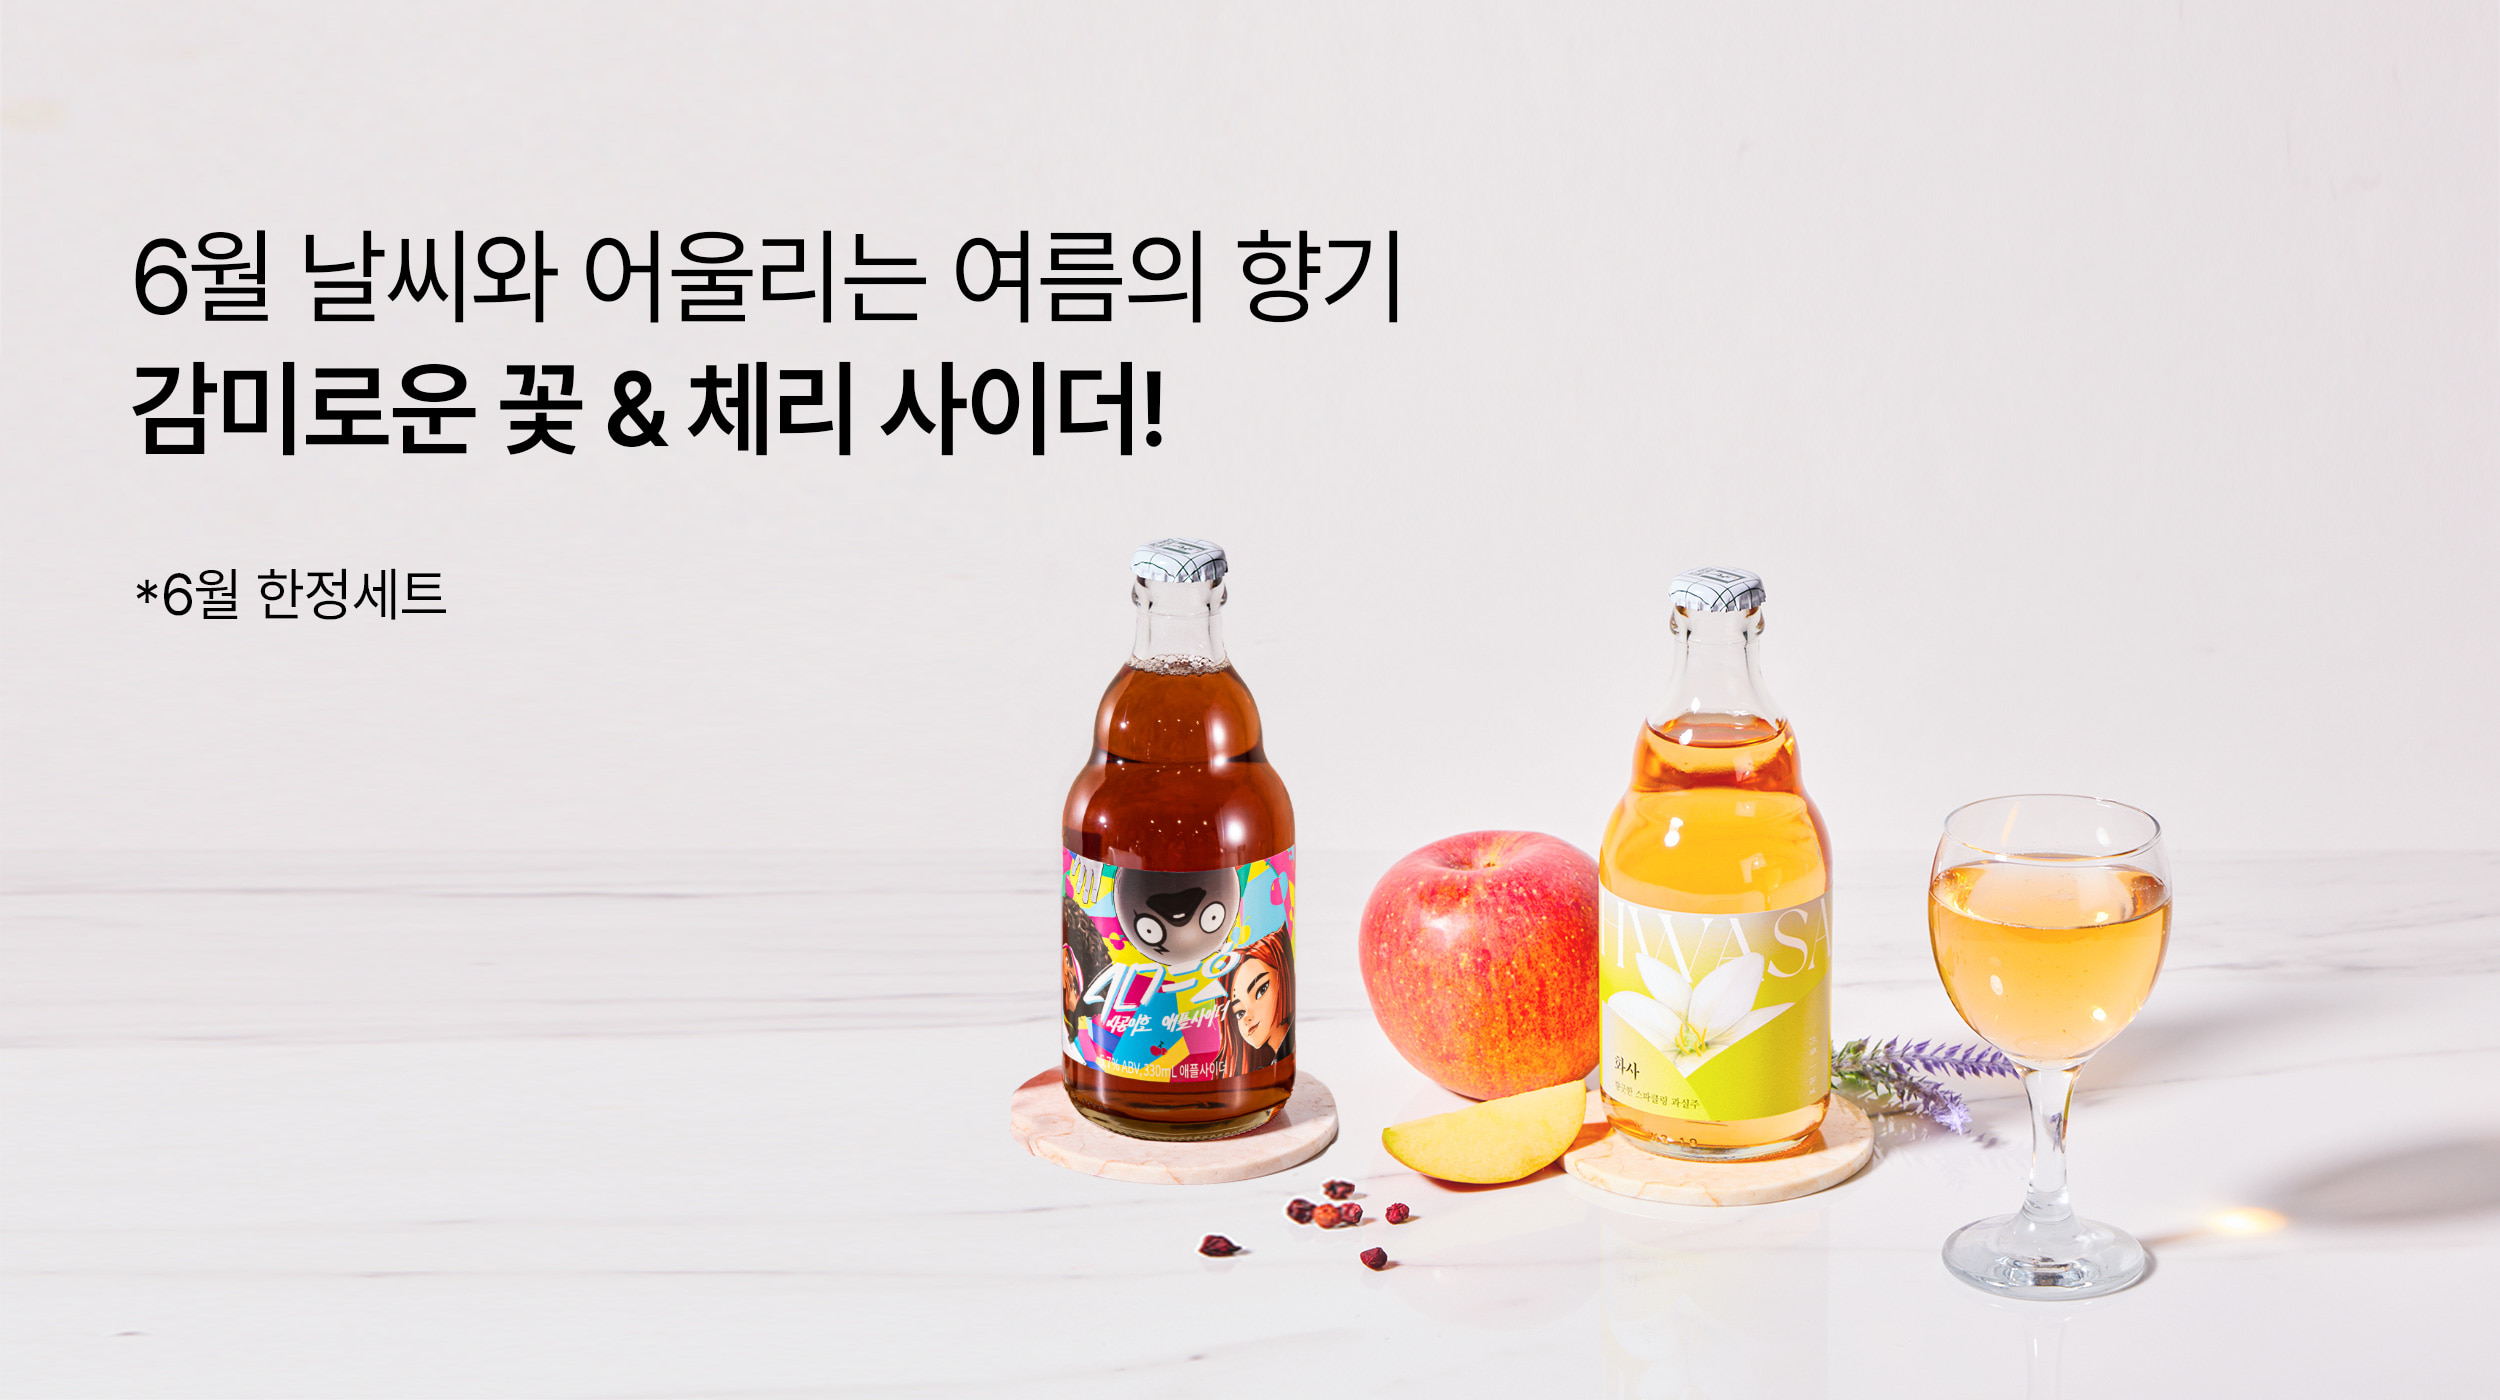
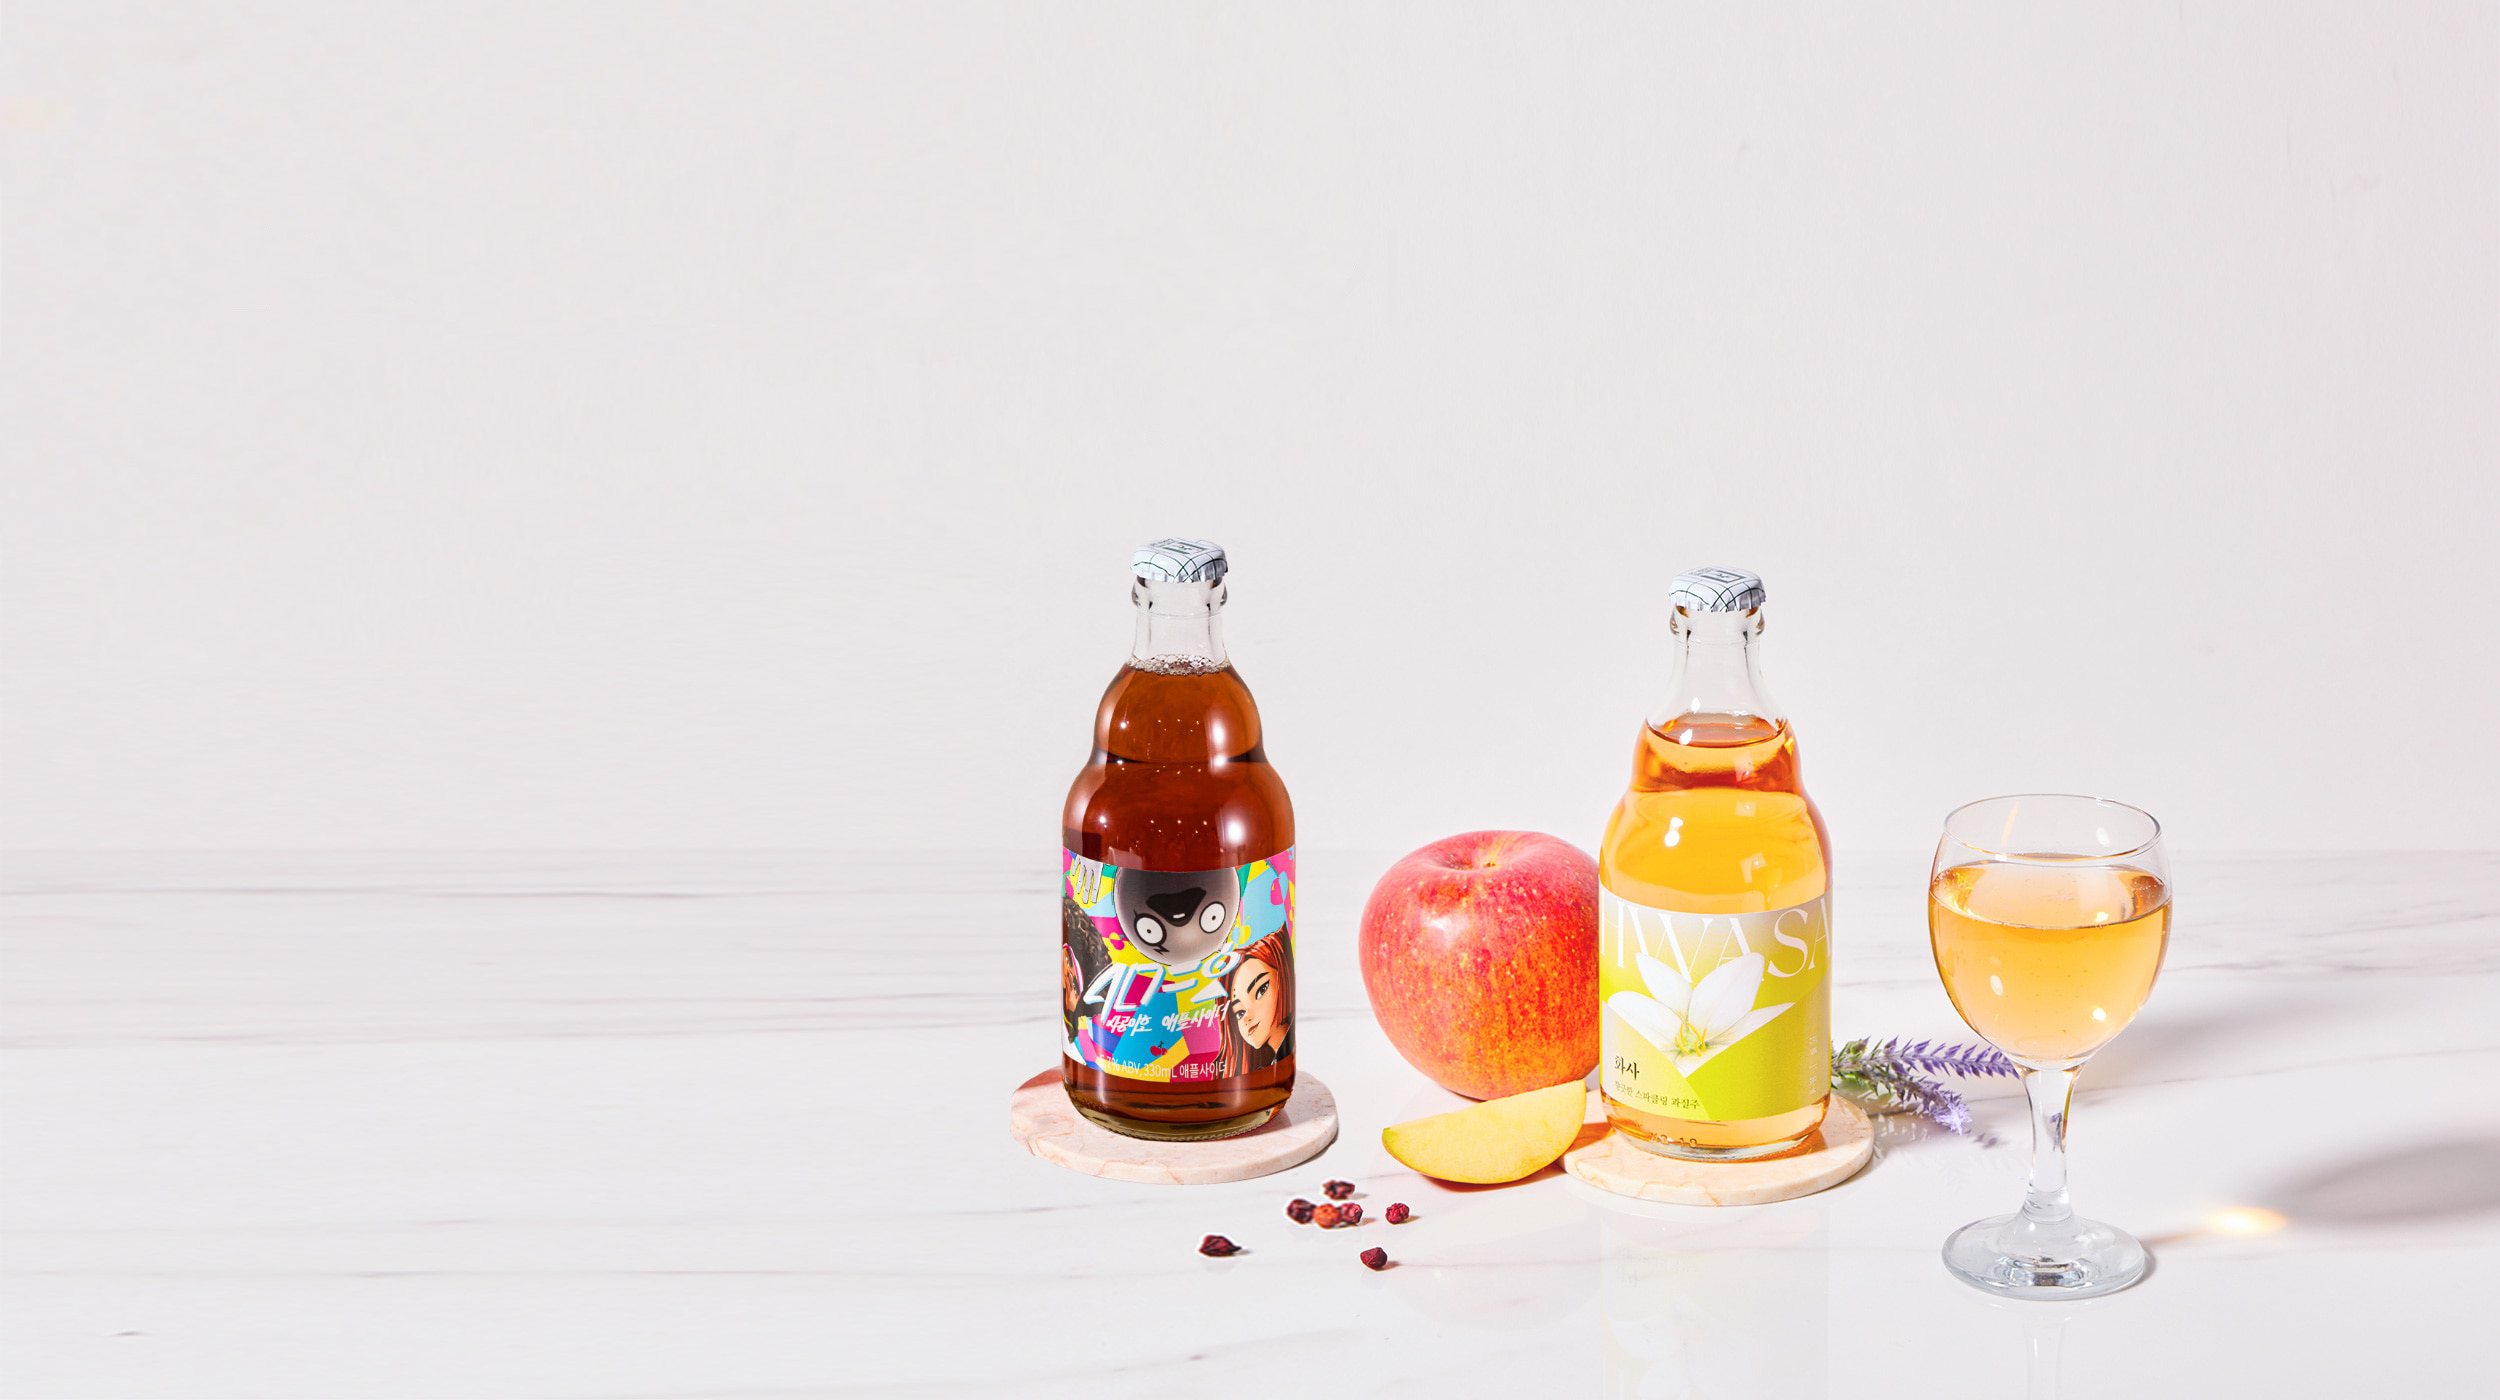
6.17

Changed region(s): [[0.0312, 0.1536, 0.5616, 0.3379], [0.0624, 0.3993, 0.1872, 0.4607]]

diff --git a/css/style.css b/css/style.css
@@ -276,20 +276,38 @@ header button.on .mcl {
   object-position: center center;
 }
 
+#visual .vi li p {
+  margin: 6%;
+  font-size: 55px;
+  line-height: 65px;
+  position: absolute;
+  top: 0;
+  left: 0;
+}
+
+#visual .vi li:nth-child(2) p {
+  color: #fff;
+  text-shadow: 0px 0px 15px #000;
+}
+
+#visual .vi li p span {
+  font-weight: bold;
+}
+
 #visual .vinav {
   display: flex;
   justify-content: center;
-  gap: 10%;
+  gap: 12.5%;
   position: absolute;
   left: 50%;
-  bottom: 15px;
+  bottom: 1.5vh;
   transform: translateX(-50%);
 }
 
 #visual .vinav li {
-  width: 5vw;
+  width: 4.5vw;
   height: 5px;
-  background-color: orange;
+  background-color: orangered;
   /* box-shadow: 0px 0px 5px #fff; */
   cursor: pointer;
   opacity: 0.5;
@@ -305,9 +323,10 @@ section {
   padding: 0 50px;
   box-sizing: border-box;
   width: 100%;
+  overflow: hidden;
 }
 
-h2 {
+section h2 {
   margin-bottom: 80px;
   font-family: "Roboto Slab", serif;
   color: var(--text-color-green);
@@ -327,7 +346,7 @@ h2 {
 }
 
 #brand ul li.scon {
-  transform: translateX(0);
+  transform: translateX(0%);
 }
 
 #brand li:nth-child(1) {
@@ -548,6 +567,20 @@ h2 {
   max-width: 510px;
   max-height: 510px;
   position: relative;
+  transition: transform 0.5s;
+}
+
+#best.scon ul li {
+  transform: translatey(0px);
+}
+
+#best ul li {
+  transform: translatey(50%);
+}
+
+#best ul li:nth-child(4),
+#best ul li:nth-child(5) {
+  transition-delay: 0.3s;
 }
 
 #best ul li img {
@@ -597,6 +630,15 @@ h2 {
   justify-content: center;
   align-items: center;
   gap: 2.5%;
+  opacity: 0;
+  transform: translatey(100%);
+  transition: opacity 0.5s;
+  transition-delay: 1s;
+}
+
+#best.scon button {
+  transform: translateY(0%);
+  opacity: 1;
 }
 
 #best button:hover {
@@ -864,7 +906,13 @@ footer div a:hover img {
   }
 
   #visual .vi li img {
-    object-position: center left;
+    object-position: center right;
+  }
+
+  #visual .vi li p {
+    margin: 5%;
+    font-size: 40px;
+    line-height: 45px;
   }
 
   /* section */
@@ -873,7 +921,7 @@ footer div a:hover img {
     padding: 0 30px;
   }
 
-  h2 {
+  section h2 {
     margin-bottom: 60px;
     font-size: 38px;
   }
@@ -1101,7 +1149,7 @@ footer div a:hover img {
   #visual {
     margin-top: 84px;
     padding: 0 10px;
-    height: 40vh;
+    height: 45vh;
   }
 
   #visual .vi li {
@@ -1122,15 +1170,28 @@ footer div a:hover img {
     }
   }
 
+  #visual .vi li img {
+    object-position: right center;
+  }
+
+  #visual .vi li p {
+    margin: 5%;
+    font-size: 25px;
+    line-height: 30px;
+  }
+  #visual .vinav li {
+    height: 3px;
+  }
+
   /* section */
   section {
     margin-top: 60px;
     padding: 0 15px;
   }
 
-  h2 {
+  section h2 {
     margin-bottom: 40px;
-    font-size: 30px;
+    font-size: 35px;
   }
 
   /* brand */
@@ -1188,11 +1249,11 @@ footer div a:hover img {
   #new .nbox {
     margin: 0 auto;
     width: 85vw;
-    height: calc(85vw + 25vh);
+    height: calc(85vw + 27vh);
   }
 
   #new .nbox li a {
-    flex-direction: column-reverse;
+    flex-direction: column-reverse !important;
     justify-content: start;
     box-sizing: border-box;
   }
@@ -1449,6 +1510,13 @@ footer div a:hover img {
   #brand li > div p {
     font-size: 12px;
     line-height: 16px;
+  }
+
+  #visual .vi li p {
+    margin: 8%;
+    font-size: 25px;
+    text-shadow: 0px 0px 2px #fff;
+    line-height: 30px;
   }
 }
 

diff --git a/js/custom.js b/js/custom.js
@@ -5,6 +5,7 @@ let visual = document.querySelector("#visual");
 let brands = document.querySelector("#brand");
 let brand = document.querySelectorAll("#brand ul li");
 let news = document.querySelector("#new");
+let best = document.querySelector("#best");
 
 // 스크롤 다운 시
 window.addEventListener("scroll", () => {
@@ -22,20 +23,14 @@ window.addEventListener("scroll", () => {
     mbar.classList.remove("scdown");
   }
 
-  //#brand transition
-
+  //브랜드 transition
   let bIs = document.querySelectorAll(".bImg");
 
-  const bIh0 = bIs[0].clientHeight / 2;
-  // 브랜드 이미지1 높이
-  const bIh1 = bIs[1].clientHeight;
-  // 브랜드 이미지1 높이
-  const bIh2 = bIs[2].clientHeight;
-  // 브랜드 이미지1 높이
+  const bIh0 = bIs[0].clientHeight;
 
   let bsScon = brands.offsetTop - bIh0;
-  let b1Scon = brand[1].offsetTop - bIh1;
-  let b2Scon = brand[2].offsetTop - bIh2;
+  let b1Scon = brand[1].offsetTop - bIh0;
+  let b2Scon = brand[2].offsetTop - bIh0;
 
   let nScon = news.offsetTop;
 
@@ -54,14 +49,34 @@ window.addEventListener("scroll", () => {
       i.classList.remove("scon");
     }
   }
+
+  // 베스트 transition
+
+  let bests = best.offsetTop - 550;
+  if (sc >= bests) {
+    best.classList.add("scon");
+  } else {
+    best.classList.remove("scon");
+  }
 });
 
-// 창 크기 변경시 스크롤 0
+// width 768px 초과일 때 mbar에 .on 지우기
+const checkw = () => {
+  if (window.innerWidth > 768) {
+    mbutton.classList.remove("on");
+    mbar.classList.remove("on");
+  }
+};
+
+// 창 크기 변경시 스크롤 0 + 너비 체크
 let scTop = () => {
   document.documentElement.scrollTop = 0;
 };
 
-window.addEventListener("resize", scTop);
+window.addEventListener("DOMContentLoaded", () => {
+  window.addEventListener("resize", scTop);
+  window.addEventListener("resize", checkw);
+});
 
 // mbar
 let mbutton = document.querySelector("header button");
@@ -78,18 +93,6 @@ mbclose.addEventListener("click", () => {
   mbutton.classList.remove("on");
   mbar.classList.remove("on");
 });
-
-// width 768px 초과일 때 mbar에 .on 지우기
-const checkw = () => {
-  if (window.innerWidth >= 768) {
-    mbutton.classList.remove("on");
-    mbar.classList.remove("on");
-  }
-};
-
-// 화면 로드/크기 변경 시 실행 너비 체크
-window.addEventListener("DOMContentLoaded", checkw);
-window.addEventListener("resize", checkw);
 
 // visual
 let slide = document.querySelectorAll(".vi li");

diff --git a/index.html b/index.html
@@ -66,13 +66,31 @@
     <div id="visual">
       <ul class="vi">
         <li class="on">
-          <a href="#"><img src="img/visual0.jpg" alt="" /></a>
+          <a href="#">
+            <img src="img/visual0.jpg" alt="visual1" />
+            <p>
+              여름 날씨와 어울리는 향기<br />
+              <span>감미로운 꽃 & 체리 사이더!</span>
+            </p>
+          </a>
         </li>
         <li>
-          <a href="#"><img src="img/visual1.jpg" alt="" /></a>
+          <a href="#">
+            <img src="img/visual1.jpg" alt="visual2" />
+            <p>
+              꽃 사이더 <span>화사</span>와<br />
+              <span>봄피크닉</span>을 더 화사하게
+            </p>
+          </a>
         </li>
         <li>
-          <a href="#"><img src="img/visual2.jpg" alt="" /></a>
+          <a href="#">
+            <img src="img/visual2.jpg" alt="visual3" />
+            <p>
+              감미로운 꽃 사이더, "화사"<br />
+              <span>한정판</span> 다이닝에디션 2종
+            </p>
+          </a>
         </li>
       </ul>
       <ul class="vinav">
